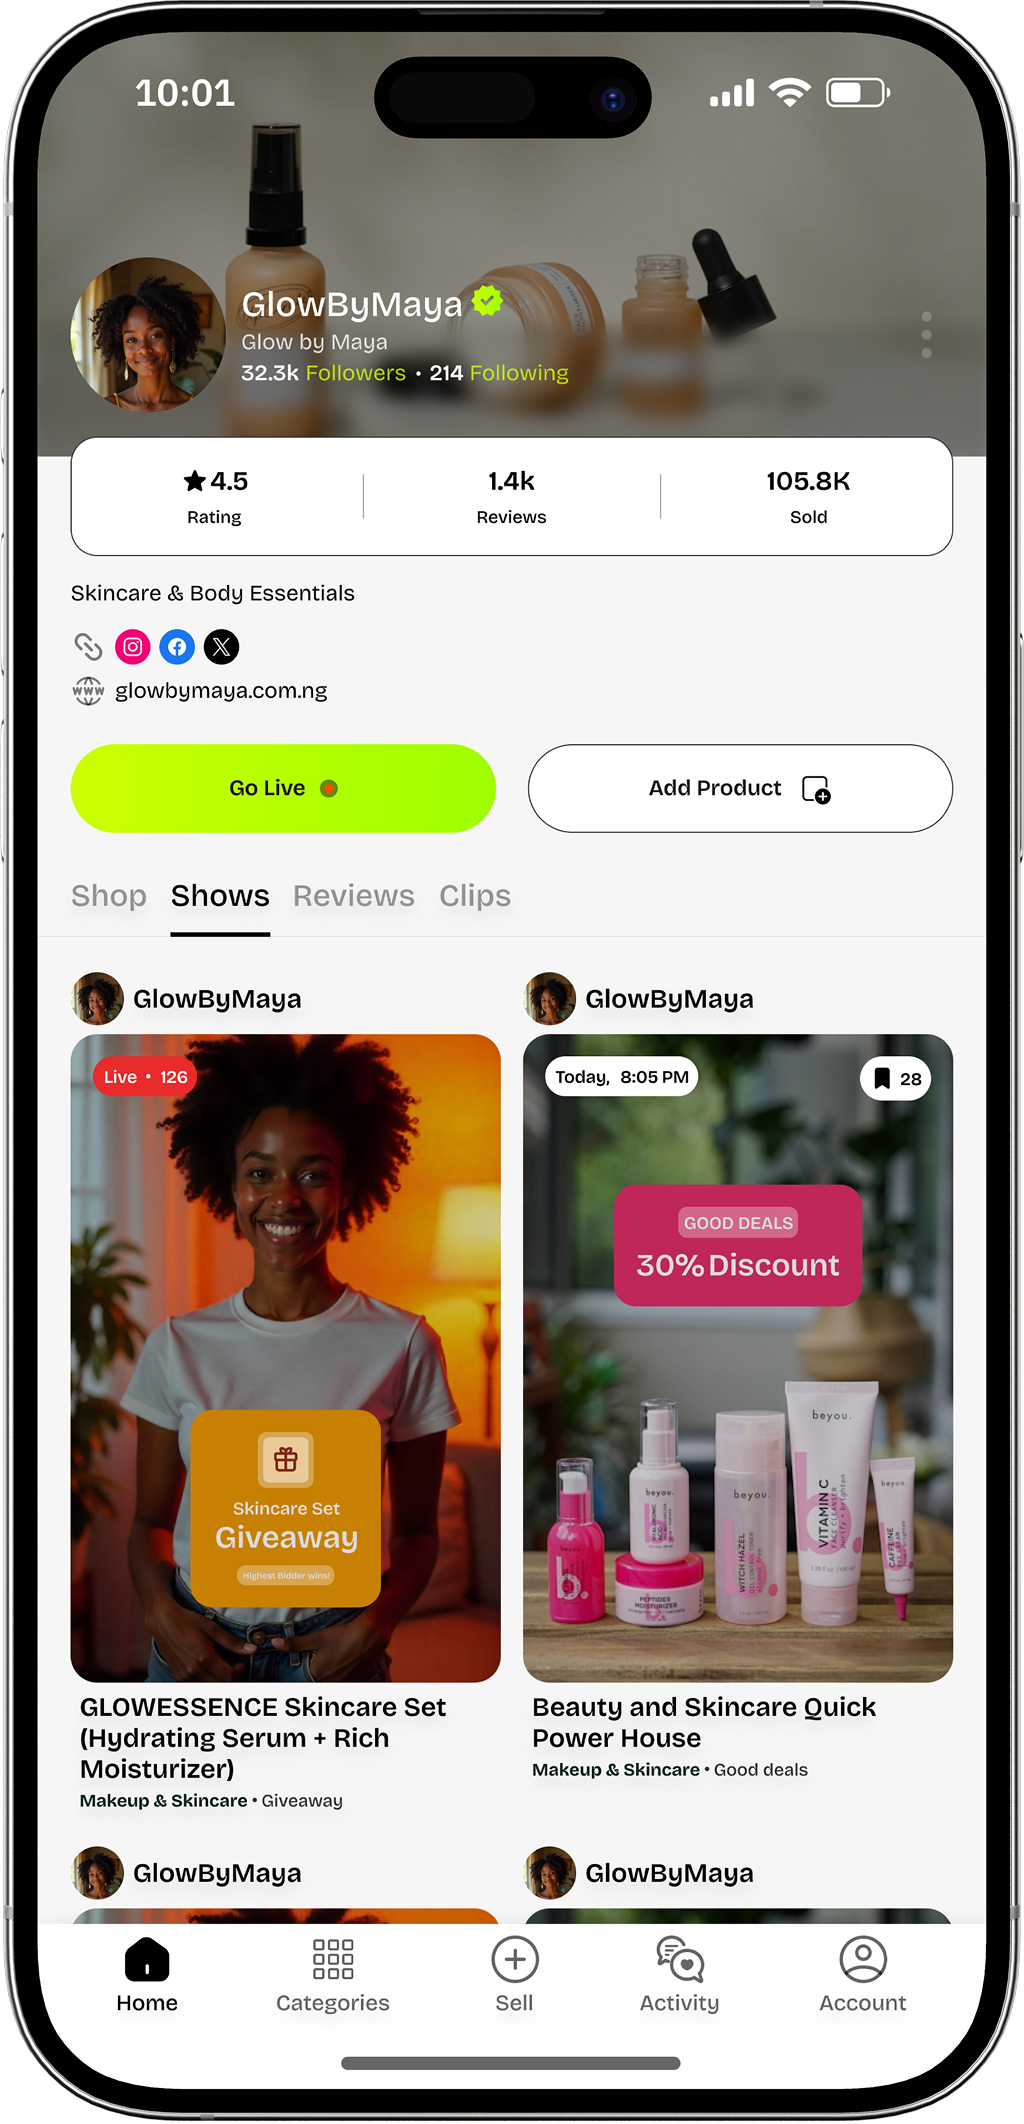
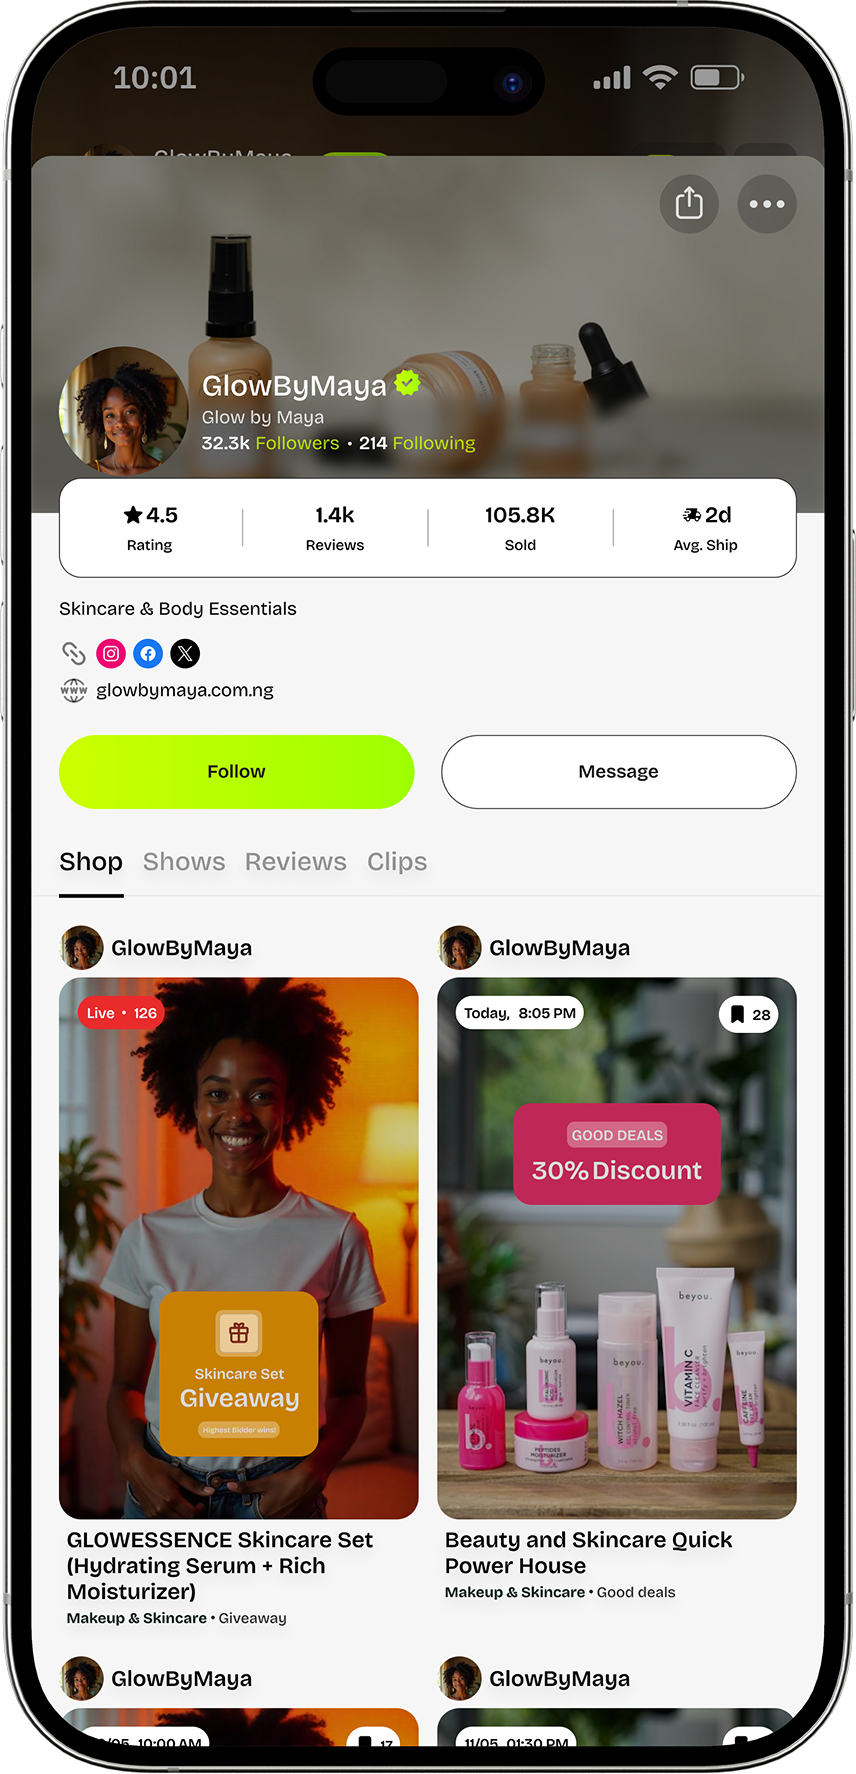
chore: update images for better quality

diff --git a/src/assets/images/index.ts b/src/assets/images/index.ts
@@ -10,6 +10,7 @@ import MockUp4 from "./iMockup_iPhone4.png";
 import MockUp5 from "./iMockup_iPhone5.png";
 import MockUp6 from "./iMockup_iPhone6.png";
 import MockUp7 from "./iMockup_iPhone7.png";
+import MockUp8 from "./iMockup_iPhone8.png";
 import HandIphoneX1 from "./hand_iphone_x1.png";
 import HandIphoneX2 from "./hand_iphone_x2.png";
 import HandIphoneX3 from "./hand_iphone_x3.png";
@@ -44,6 +45,7 @@ export {
   MockUp5,
   MockUp6,
   MockUp7,
+  MockUp8,
   HandIphoneX1,
   HandIphoneX2,
   HandIphoneX3,

diff --git a/src/components/landing/HowItWorks.tsx b/src/components/landing/HowItWorks.tsx
@@ -9,6 +9,7 @@ import {
   MockUp5,
   MockUp6,
   MockUp7,
+  MockUp8,
   TitikTitik,
 } from "@/assets/images";
 import { scrollToSection } from "@/utils/scrollUtils";
@@ -92,7 +93,7 @@ const sellerFeatures = [
     title: "Plan & Promote Live Shows",
     description:
       "Pick a date and time for your stream, add a thumbnail and title, then share the link across social channels to build the buzz.",
-    image: MockUp3,
+    image: MockUp8,
     bgColor: "bg-[#EFA519]/60",
     imagePosition: "bottom",
   },
